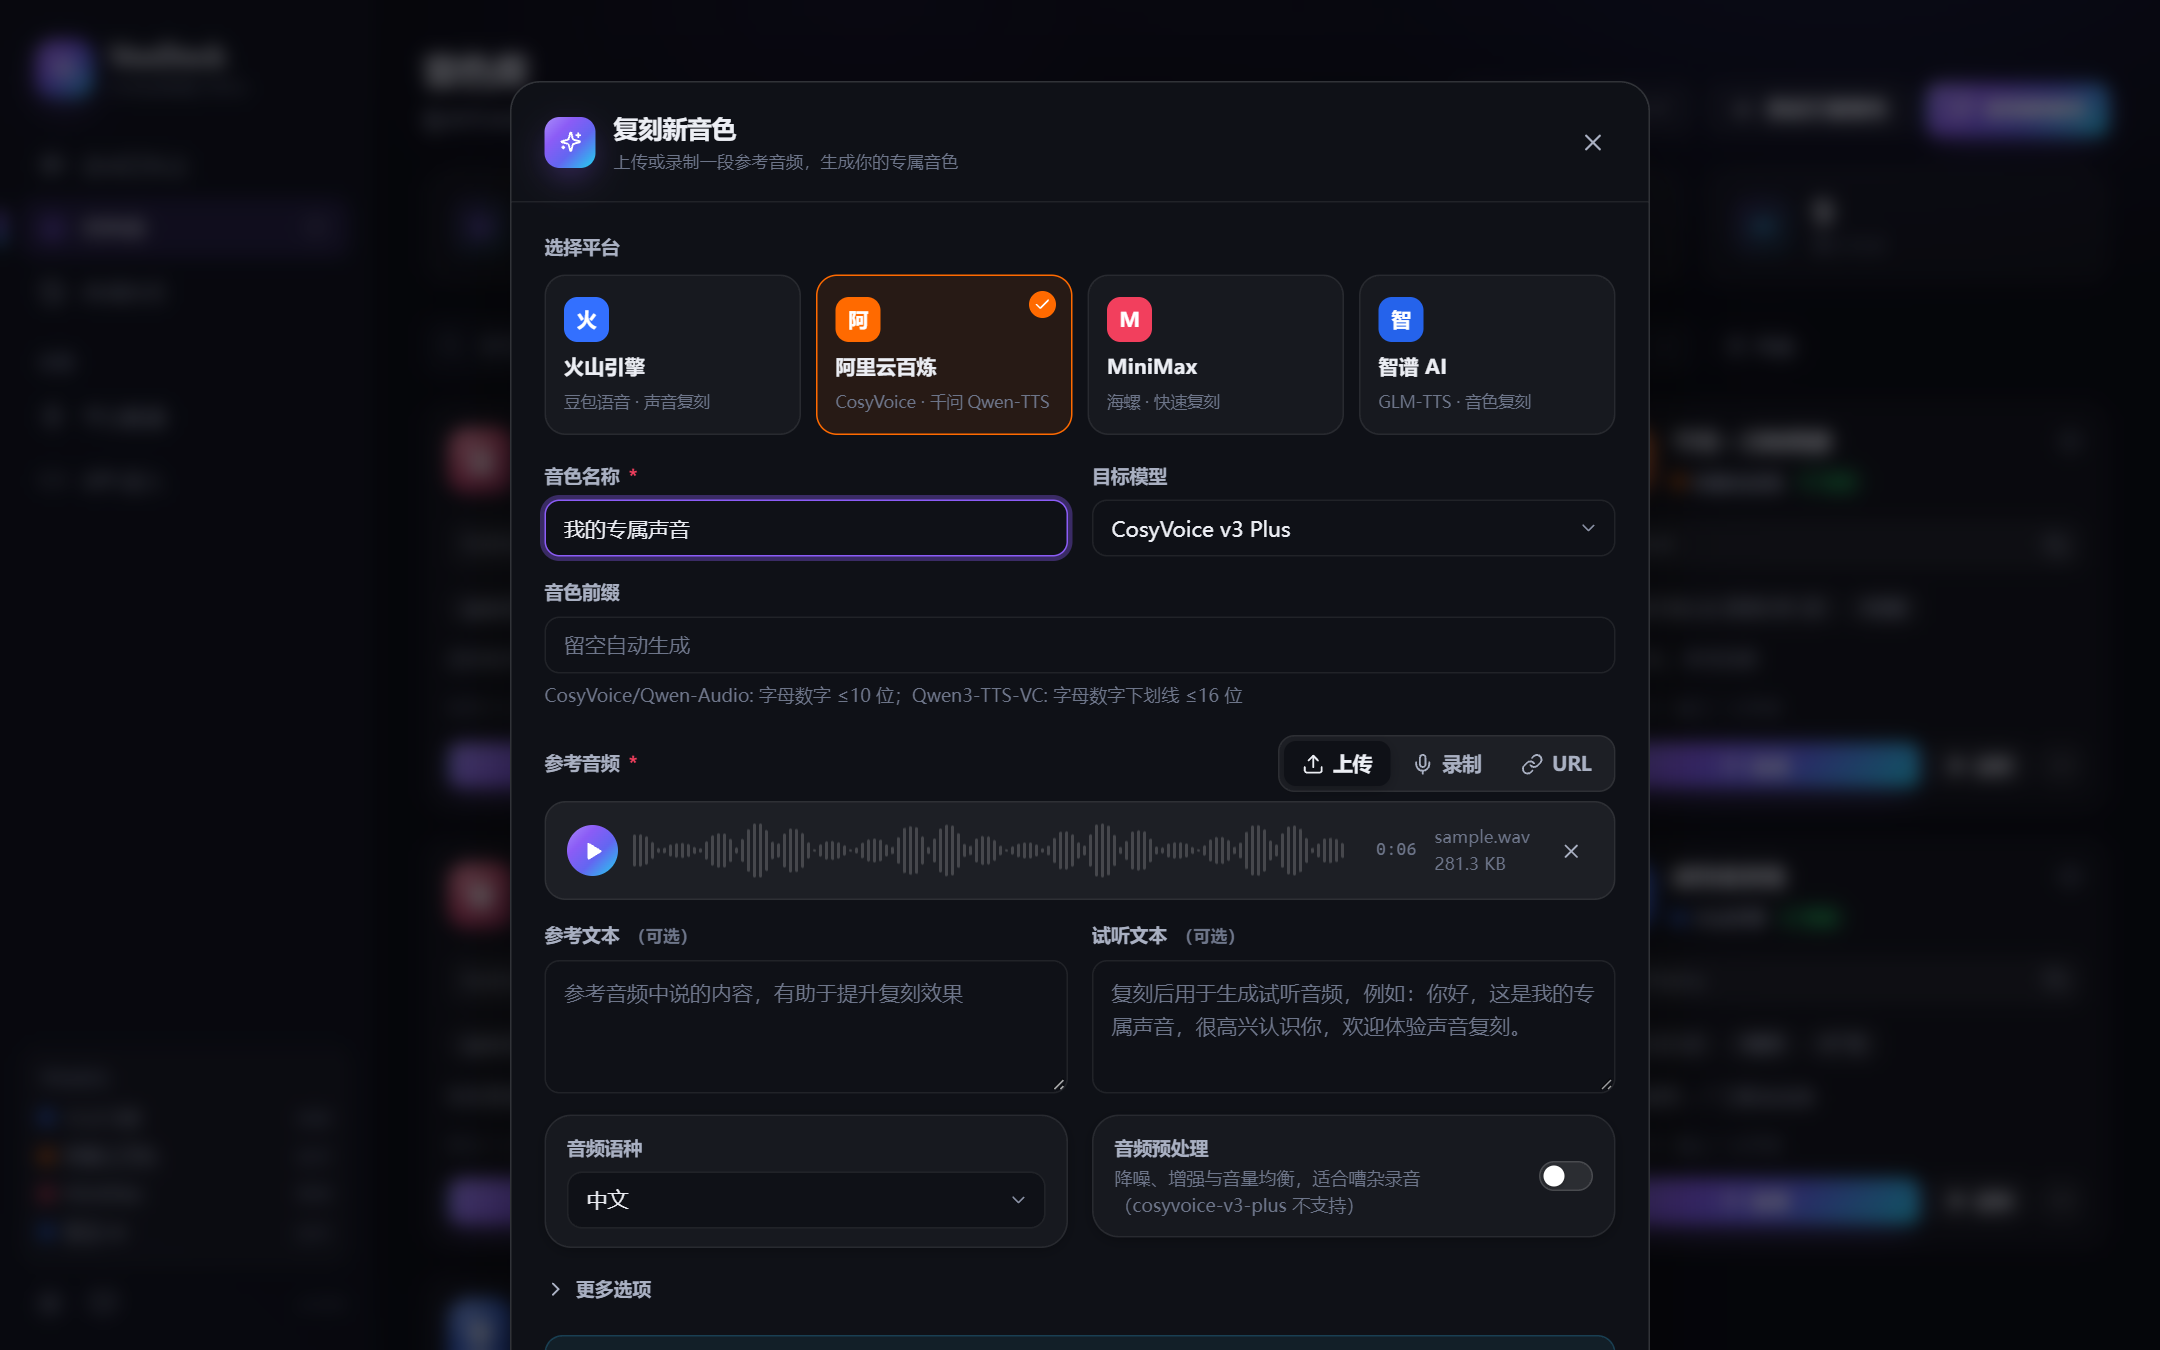
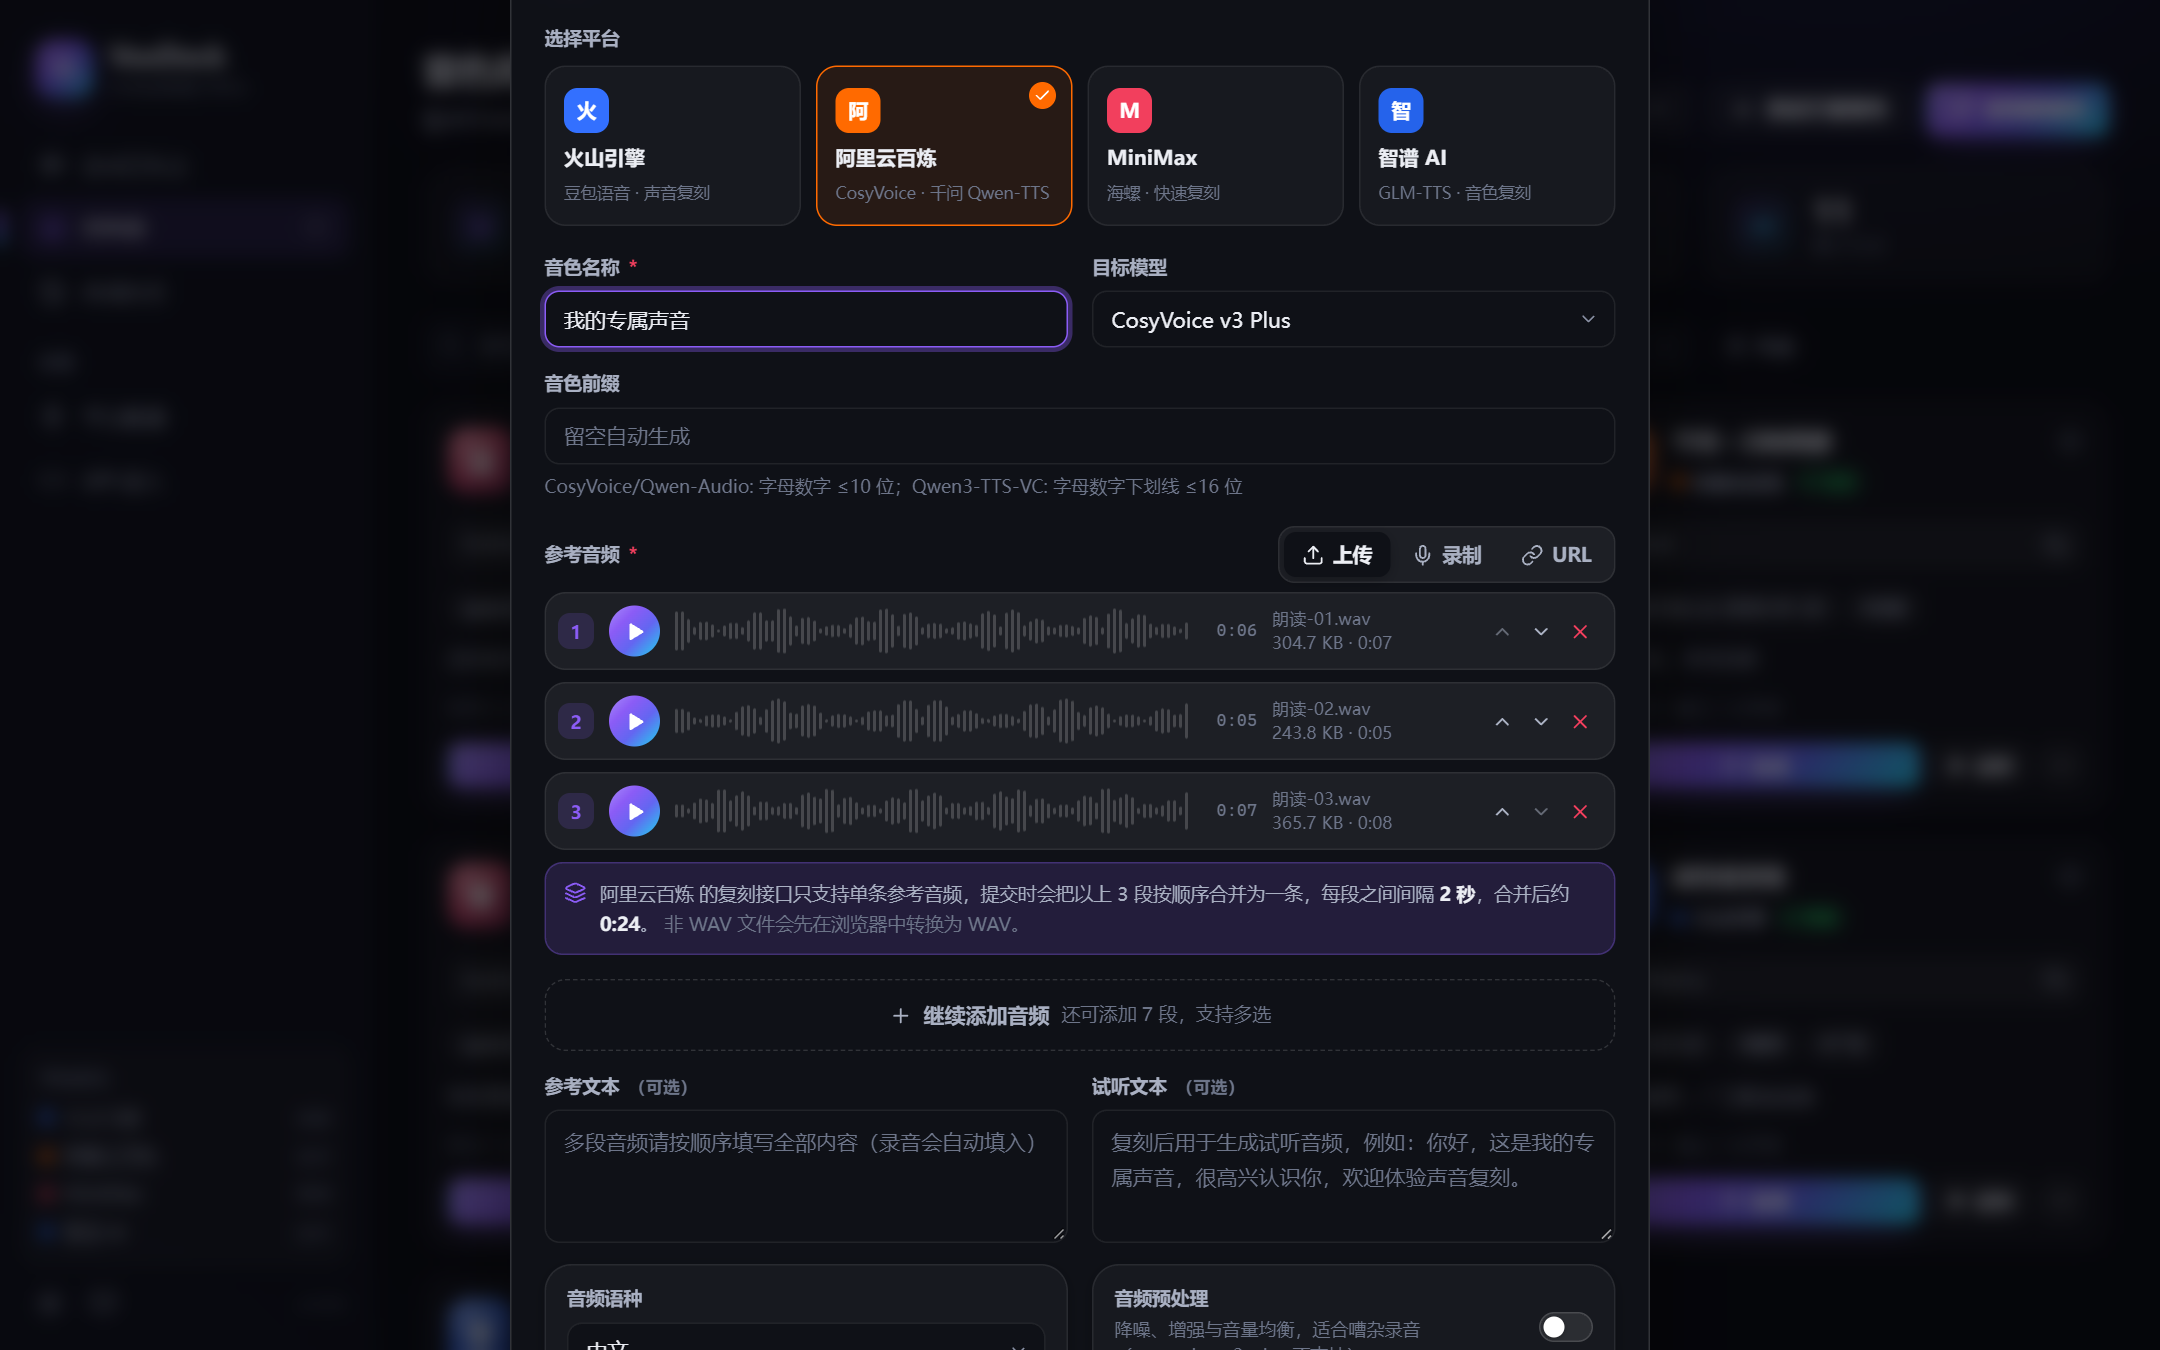
更新Readme

diff --git a/README.md b/README.md
@@ -66,21 +66,41 @@
 
 ## 🖼 界面预览
 
+### 操作演示
+
+<p align="center">
+  <img src="docs/images/demo.gif" alt="VoxDock 操作演示：输入文本、调节语速、生成并播放，切换音色，多段参考音频复刻，平台接入指引，API 接入，切换浅色主题" width="100%">
+</p>
+
+<p align="center"><sub>输入文本 → 调节语速 → 生成并播放 → 切换音色 → 复刻（多段参考音频，可调整顺序）→ 平台接入指引 → API 接入 → 浅色主题</sub></p>
+
+### 页面截图
+
 <table>
 <tr>
 <td colspan="2"><img src="docs/images/studio.png" alt="合成工作台"><p align="center"><b>合成工作台</b>：选择音色、调节参数、实时波形回放</p></td>
 </tr>
 <tr>
 <td width="50%"><img src="docs/images/voices.png" alt="音色库"><p align="center"><b>音色库</b>：跨平台统一管理</p></td>
-<td width="50%"><img src="docs/images/clone.png" alt="复刻音色"><p align="center"><b>复刻新音色</b>：上传 / 录制 / URL</p></td>
+<td width="50%"><img src="docs/images/clone.png" alt="复刻音色"><p align="center"><b>复刻新音色</b>：多段参考音频，自动合并</p></td>
 </tr>
 <tr>
-<td width="50%"><img src="docs/images/providers.png" alt="平台配置"><p align="center"><b>平台配置</b>：密钥管理与连接测试</p></td>
+<td width="50%"><img src="docs/images/providers.png" alt="平台配置"><p align="center"><b>平台配置</b>：分步接入指引与一键跳转</p></td>
 <td width="50%"><img src="docs/images/api.png" alt="API 接入"><p align="center"><b>API 接入</b>：Key 管理与调用示例</p></td>
 </tr>
 <tr>
 <td width="50%"><img src="docs/images/history-light.png" alt="合成历史"><p align="center"><b>合成历史</b>（浅色主题）</p></td>
 <td width="50%"><img src="docs/images/studio-light.png" alt="浅色主题"><p align="center"><b>浅色主题</b></p></td>
+</tr>
+</table>
+
+### 移动端
+
+<table>
+<tr>
+<td align="center" width="33%"><img src="docs/images/mobile-studio.png" alt="移动端合成工作台" width="260"><br><sub><b>合成工作台</b></sub></td>
+<td align="center" width="33%"><img src="docs/images/mobile-voices.png" alt="移动端音色库" width="260"><br><sub><b>音色库</b></sub></td>
+<td align="center" width="33%"><img src="docs/images/mobile-providers.png" alt="移动端平台配置" width="260"><br><sub><b>平台配置</b></sub></td>
 </tr>
 </table>
 
